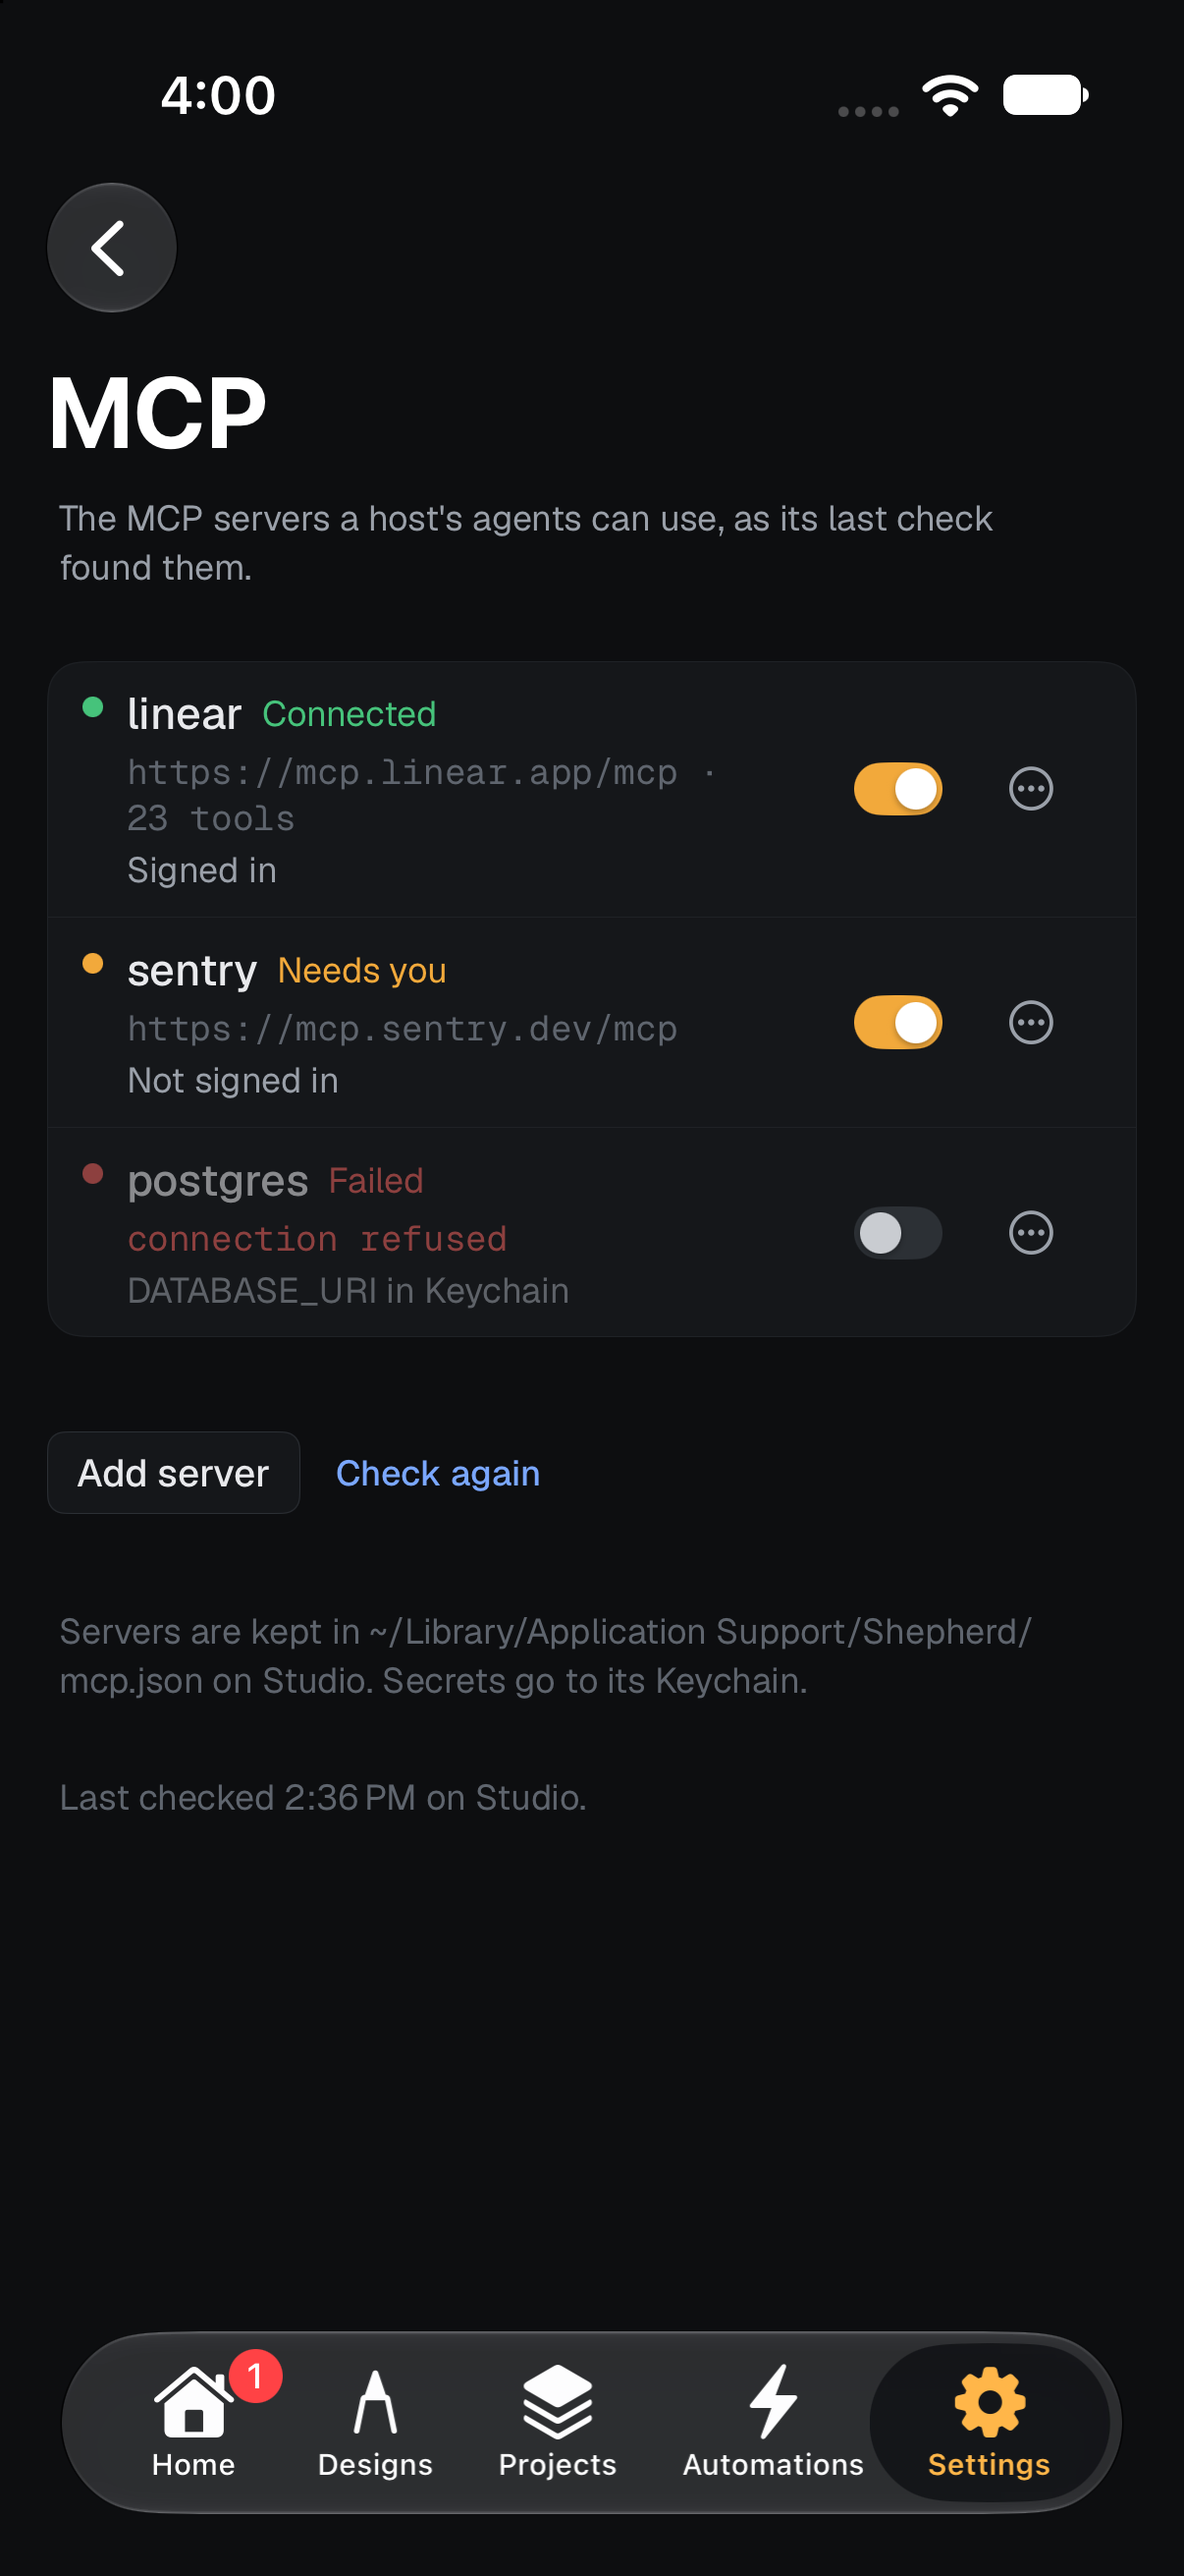
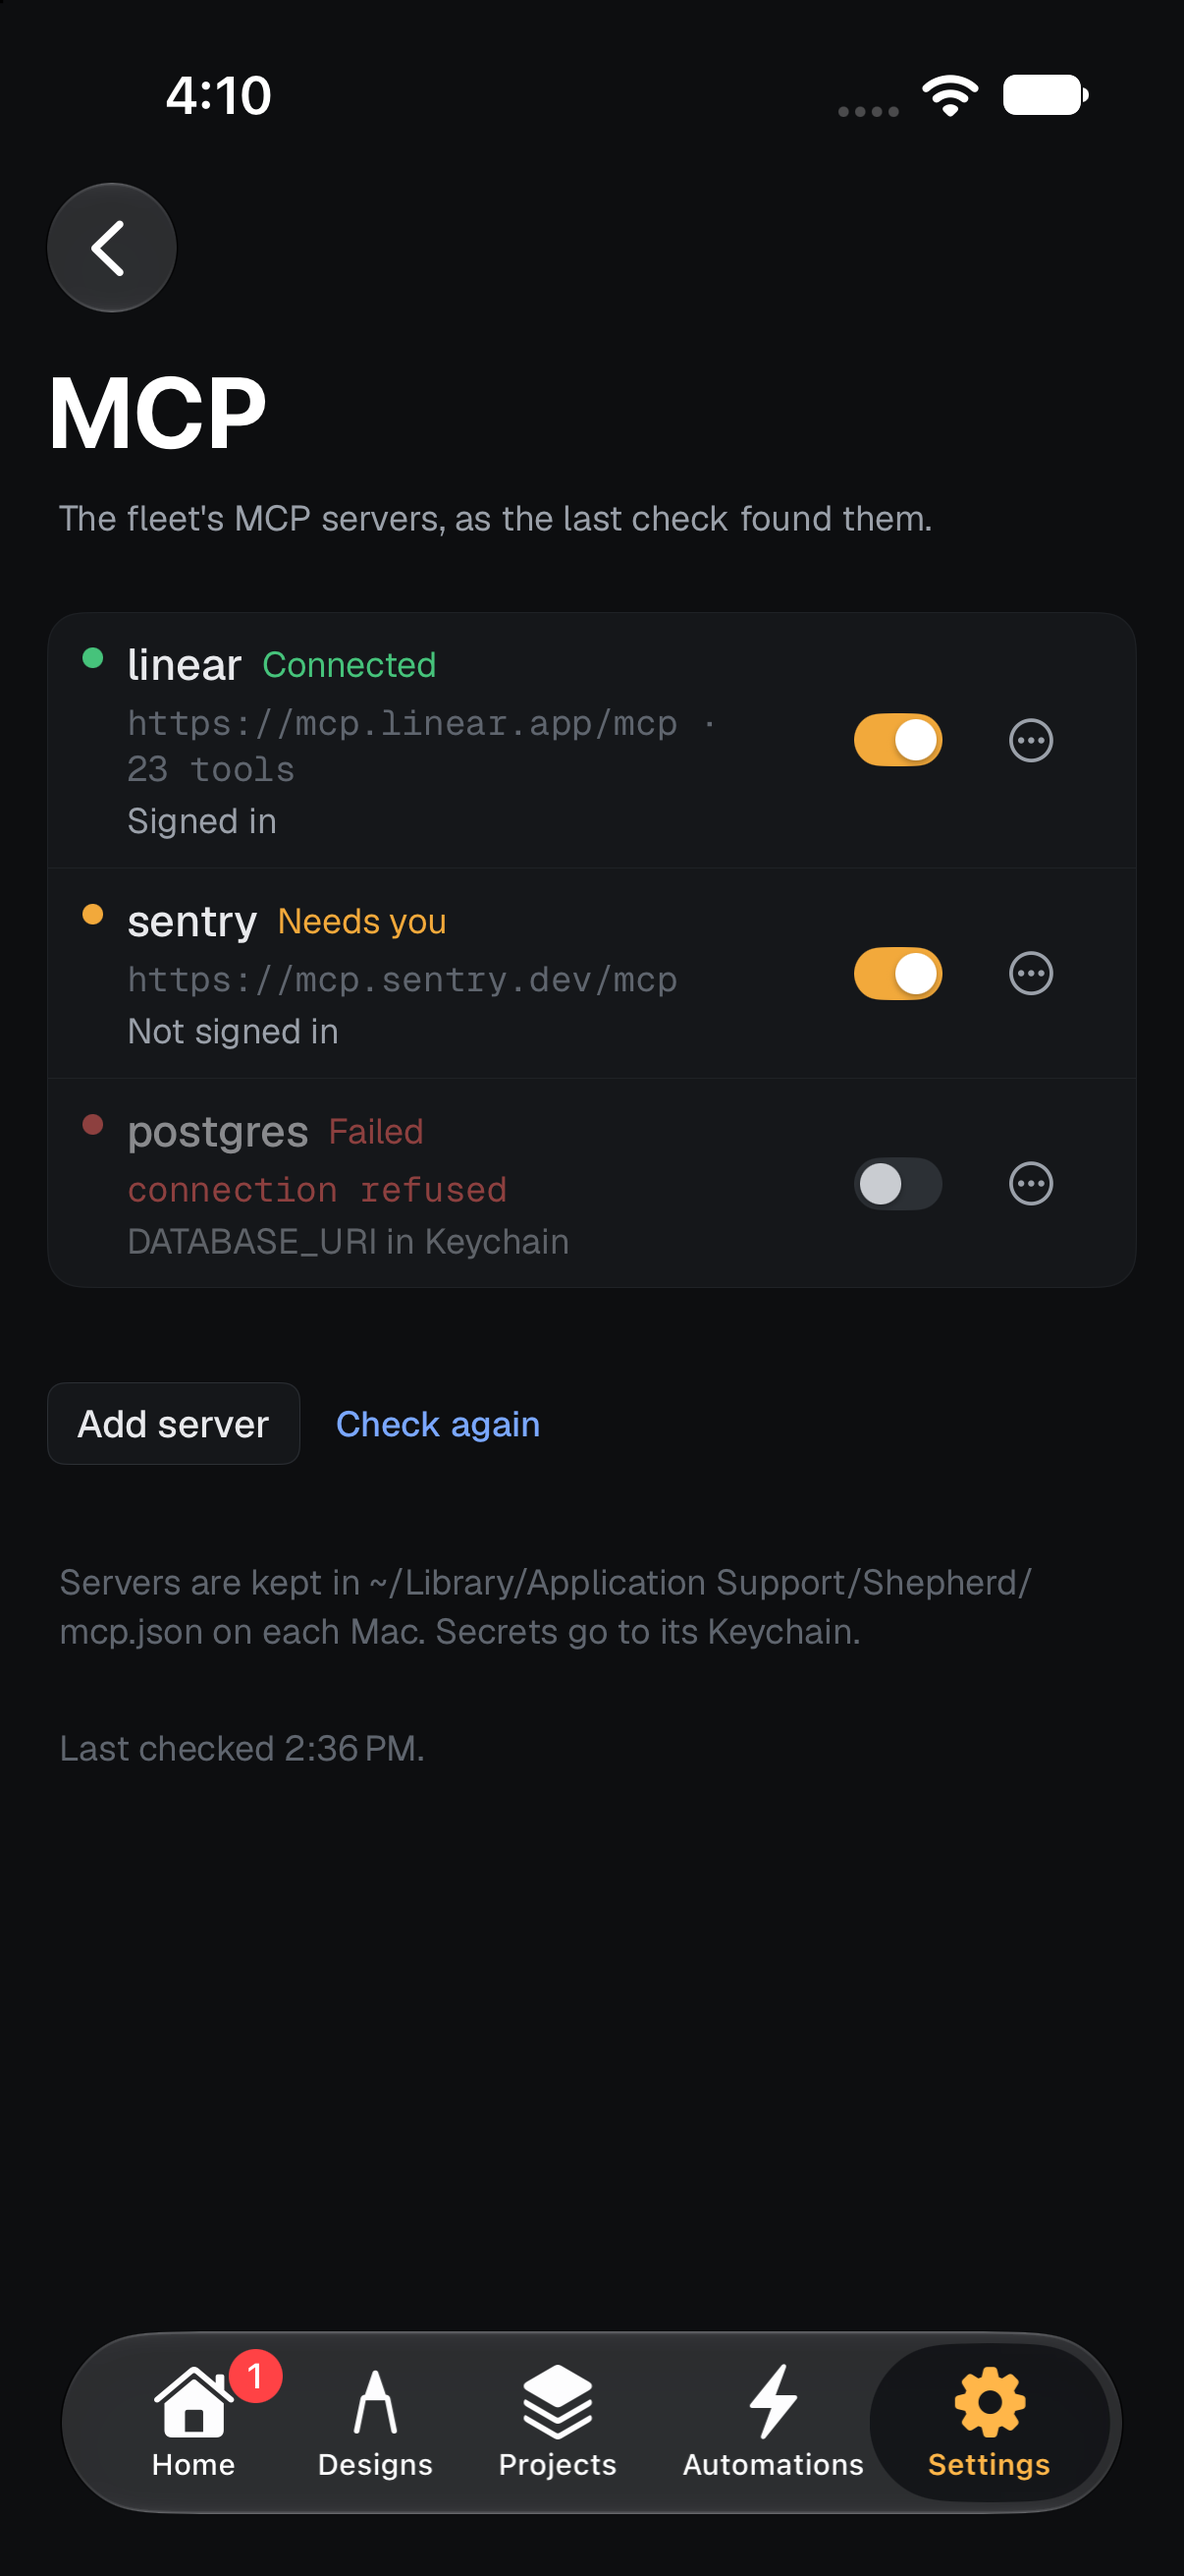
fix(fleet): iOS MCP and subagent pages speak of the fleet's copy; iPad and subagent previews

diff --git a/App/iOS/Settings/HostInventoryScreens.swift b/App/iOS/Settings/HostInventoryScreens.swift
@@ -19,7 +19,7 @@ struct MCPServersScreen: View {
         let config = store.hostConfig
         let editor = store.mcpEditor
         HostConfigPage(store: store, page: .mcp, configPage: .mcp,
-                       explanation: "The MCP servers a host's agents can use, as its last check found them.") { host in
+                       explanation: "The fleet's MCP servers, as the last check found them.") { host in
             if let inventory = config.mcp[host.id] {
                 let editable = config.canEdit(host)
                 if let problem = inventory.problem {
@@ -37,7 +37,7 @@ struct MCPServersScreen: View {
                     } cancel: { store.mcpEditor = nil }
                 }
                 if inventory.servers.isEmpty {
-                    SettingsFootnote("No MCP servers on \(host.name) yet.")
+                    SettingsFootnote("No MCP servers in the fleet yet.")
                 } else {
                     SHListCard {
                         ForEach(inventory.servers) { server in
@@ -66,12 +66,12 @@ struct MCPServersScreen: View {
                             .buttonStyle(.shLink(font: .sh(.caption, weight: .medium)))
                             .disabled(config.busy.contains(host.id))
                     }
-                    SettingsFootnote("Servers are kept in \(inventory.configPath) on \(host.name). Secrets go to its Keychain.")
+                    SettingsFootnote("Servers are kept in \(inventory.configPath) on each Mac. Secrets go to its Keychain.")
                 } else {
                     SettingsFootnote(HostInventoryPresentation.mcpGuidance(host: host.name, configPath: inventory.configPath))
                 }
                 if let checked = inventory.checkedAt {
-                    SettingsFootnote("Last checked \(Date(timeIntervalSince1970: checked).formatted(date: .omitted, time: .shortened)) on \(host.name).")
+                    SettingsFootnote("Last checked \(Date(timeIntervalSince1970: checked).formatted(date: .omitted, time: .shortened)).")
                 }
             }
         }
@@ -233,10 +233,10 @@ struct SubagentProfilesScreen: View {
         let store = SettingsStore.of(hosts)
         let config = store.hostConfig
         HostConfigPage(store: store, page: .subagents, configPage: .subagents,
-                       explanation: "A subagent is a Markdown file: a name, a description and the instructions it runs with. An agent starts one by name. These are the host's profiles; its live runs show in each thread.") { host in
+                       explanation: "A subagent is a Markdown file: a name, a description and the instructions it runs with. An agent starts one by name. These are the fleet's profiles; live runs show in each thread.") { host in
             if let profiles = config.profiles[host.id] {
                 if profiles.isEmpty {
-                    SettingsFootnote("No subagents on \(host.name).")
+                    SettingsFootnote("No subagents in the fleet yet.")
                 } else {
                     SHListCard {
                         ForEach(profiles) { profile in
@@ -259,7 +259,7 @@ struct SubagentProfilesScreen: View {
                                 .buttonStyle(.shLink(font: .sh(.caption, weight: .medium)))
                         }
                     }
-                    .confirmationDialog("Restore the default subagents on \(host.name)?", isPresented: $restoring) {
+                    .confirmationDialog("Restore the default subagents?", isPresented: $restoring) {
                         Button("Restore defaults", role: .destructive) {
                             let expected = Dictionary(profiles.filter(\.isDefault).compactMap { p in p.fingerprint.map { (p.file, $0) } },
                                                       uniquingKeysWith: { first, _ in first })
@@ -269,7 +269,7 @@ struct SubagentProfilesScreen: View {
                         Text("scout, reviewer, planner and worker go back to how Shepherd ships them. Your own profiles stay.")
                     }
                 } else {
-                    SettingsFootnote("Edit, add, delete or restore profiles in Settings ▸ Subagents on \(host.name).")
+                    SettingsFootnote("Edit, add, delete or restore profiles in Settings ▸ Subagents on a Mac.")
                 }
             }
         }
@@ -329,7 +329,7 @@ struct SubagentProfileScreen: View {
                             .buttonStyle(.sh(.secondary))
                     }
                 }
-                .confirmationDialog("Delete \(file) on \(host.name)?", isPresented: $deleting) {
+                .confirmationDialog("Delete \(file)?", isPresented: $deleting) {
                     Button("Delete", role: .destructive) {
                         guard let fingerprint = loaded?.fingerprint else { return }
                         Task {
@@ -337,7 +337,7 @@ struct SubagentProfileScreen: View {
                         }
                     }
                 }
-                SettingsFootnote("A file changed on \(host.name) since it was opened here isn't overwritten: open it again.")
+                SettingsFootnote("A file changed since it was opened here isn't overwritten: open it again.")
             } else if let loaded {
                 Text(loaded.text)
                     .font(.sh(.mono))
@@ -347,7 +347,7 @@ struct SubagentProfileScreen: View {
                     .padding(SH.Space.l)
                     .frame(maxWidth: .infinity, alignment: .leading)
                     .shCard(radius: SHListMetrics.cardRadius)
-                SettingsFootnote("Edit it in Settings ▸ Subagents on \(host.name).")
+                SettingsFootnote("Edit it in Settings ▸ Subagents on a Mac.")
             }
             Color.clear.frame(height: 0)
                 .task(id: host.id) {

diff --git a/Tests/ShepherdIOSChecks/Fixtures/HostConfigFixtures.swift b/Tests/ShepherdIOSChecks/Fixtures/HostConfigFixtures.swift
@@ -16,6 +16,7 @@ extension FixtureCatalog {
                           prepare: { app in
                               SettingsStore.of(app.hosts).mcpEditor = MCPEditor(replacing: "postgres", json: FixtureData.postgresJSON)
                           }),
+            FixtureScreen(name: "settings-subagents", hosts: FixtureData.configuredHosts(), routes: [.settings(.subagents)], tab: .settings),
             FixtureScreen(name: "settings-subagent-edit", hosts: FixtureData.configuredHosts(),
                           routes: [.settings(.subagents), .settings(.subagent("reviewer.md"))], tab: .settings),
             FixtureScreen(name: "settings-signin-accounts", hosts: FixtureData.configuredHosts(), routes: [.settings(.signIn)], tab: .settings),

diff --git a/App/iOS/Settings/SettingsRoute.swift b/App/iOS/Settings/SettingsRoute.swift
@@ -19,7 +19,7 @@ enum SettingsRoute: Hashable, Codable {
     case piExtensions
     /// A host's MCP servers and their last known status, read-only.
     case mcp
-    /// A host's subagent profiles, read-only; one profile's Markdown.
+    /// The fleet's subagent profiles, read-only; one profile's Markdown.
     case subagents
     case subagent(String)
     /// A host's providers and whether each is signed in, read-only.
